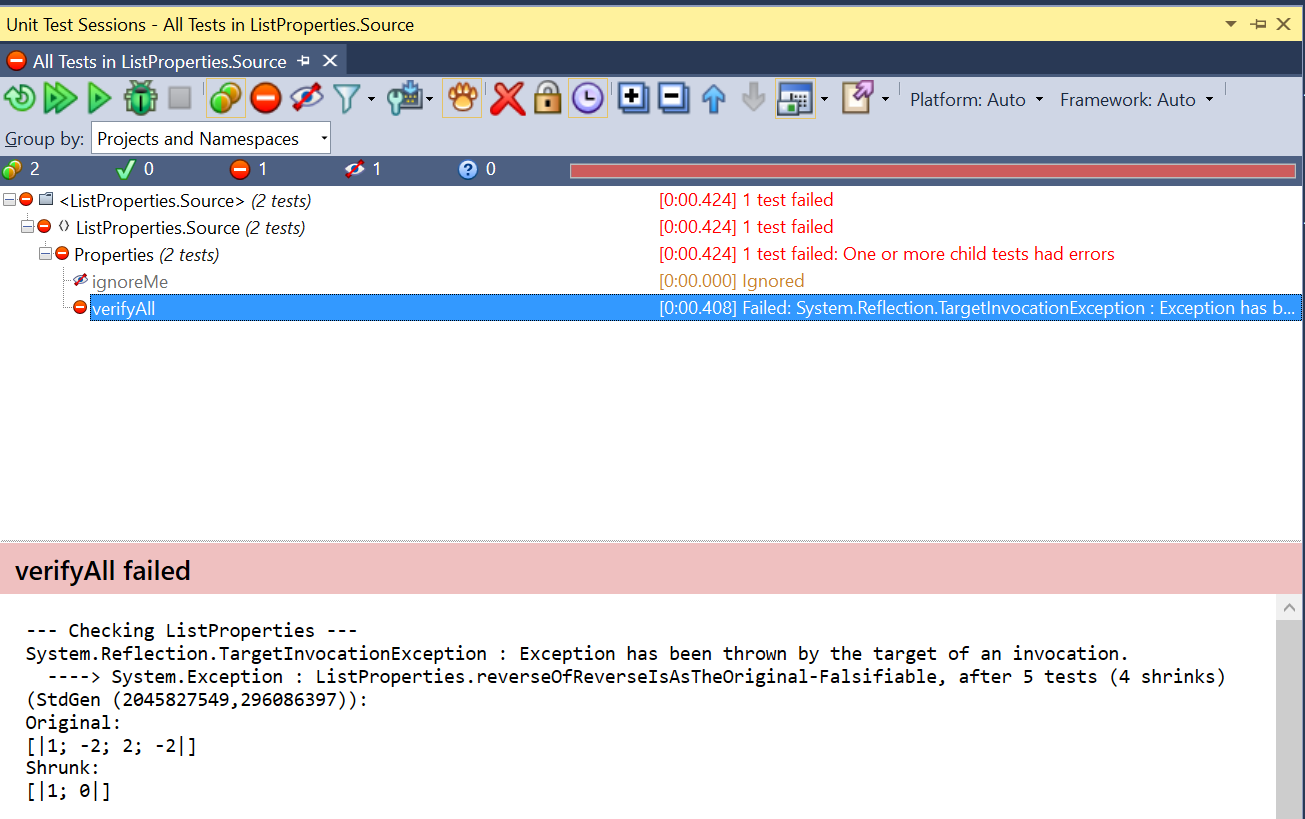
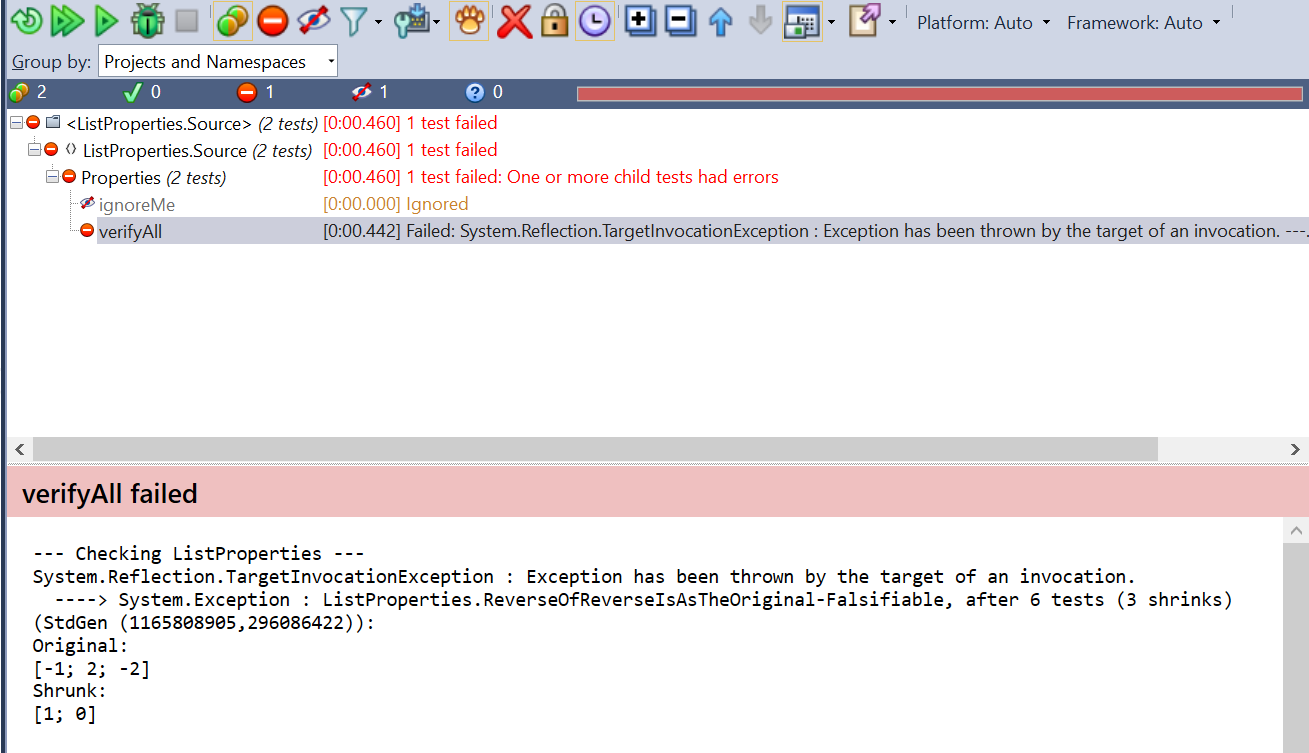
Changed screenshots to reflect fixes in the code

diff --git a/_posts/2015-11-25-Property-based-testing-FsCheck-Resharper-NCrunch-Visual-Studio-2013.md b/_posts/2015-11-25-Property-based-testing-FsCheck-Resharper-NCrunch-Visual-Studio-2013.md
@@ -75,16 +75,16 @@ If you are asking "How can I set up a development environment in .Net that would
             let ignoreMe() = () 
     ```
 	
-6. Create a static class whose methods are the properties you want to test
+6. For this example I'll test a plainly wrong property about arrays which is **the reverse of an array is always equal to the original**. Create a static class whose methods are the properties you want to test
     
 	``` fs
             type ListProperties =     
                 // Note: should fail     
                 static member reverseIsAsTheOriginal (xs:int[]) =          
-                    Array.rev xs = xs
+                    List.rev xs = xs
     ```
 	
-7. Add the following test to verify all the properties defined in the ```ListProperties``` type
+7. Add the following test to verify the property defined in the ```ListProperties``` type
     
 	``` fs
             [<Test>] 
